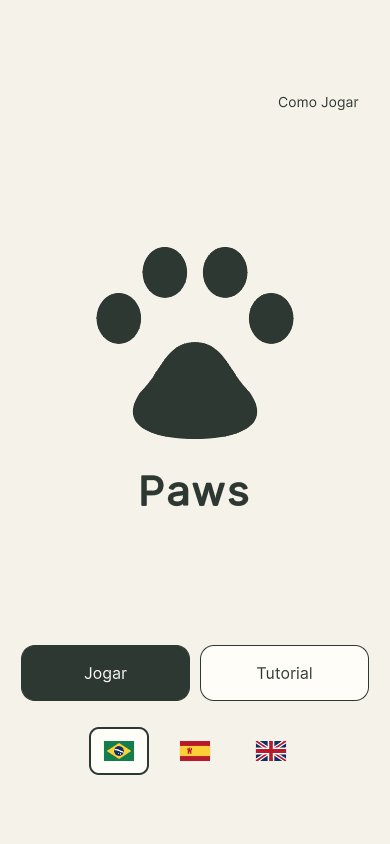
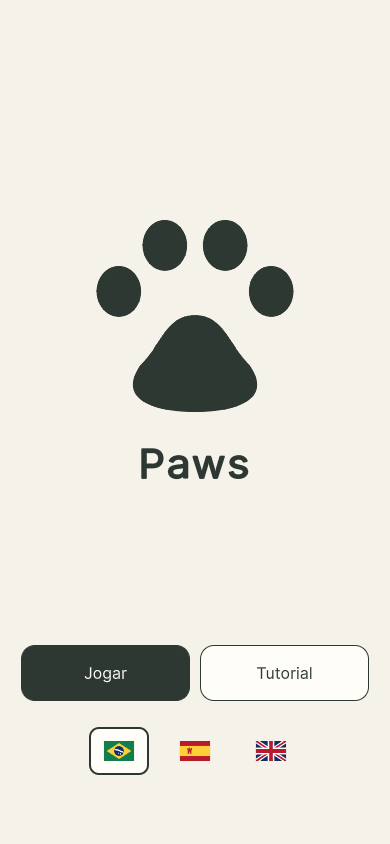
refactor(menu): use tutorial as the sole learning entry point (#72)

Changed region(s): [[0.2462, 0.2464, 0.7692, 0.6161], [0.8308, 0.0924, 0.9231, 0.154], [0.7385, 0.0924, 0.8, 0.1232]]

diff --git a/UnityProject/Assets/CatsAndArrows/UI/GameLocalization.cs b/UnityProject/Assets/CatsAndArrows/UI/GameLocalization.cs
@@ -26,7 +26,6 @@ namespace CatsAndArrows.UI
                 { "game.back", new[] { "Back to the Game", "Voltar ao Jogo", "Volver al Juego" } },
                 { "game.close", new[] { "Continue", "Continuar", "Continuar" } },
                 { "game.retry", new[] { "Try Again", "Tentar Novamente", "Intentar de Nuevo" } },
-                { "game.rules", new[] { "How to Play", "Como Jogar", "Cómo Jugar" } },
                 { "game.language", new[] { "Language", "Idioma", "Idioma" } },
                 { "game.loading", new[] { "Finding a little puzzle…", "Preparando um tabuleiro…", "Preparando un tablero…" } },
                 { "game.victory", new[] { "All paws found!", "Você encontrou todas as patas!", "¡Encontraste todas las patas!" } },
@@ -39,11 +38,6 @@ namespace CatsAndArrows.UI
                 { "game.hint-correction", new[] { "This clue gently replaces your earlier mark.", "Esta pista substitui a marca anterior com tranquilidade.", "Esta pista reemplaza con calma tu marca anterior." } },
                 { "game.hint-none", new[] { "There is no new clue to apply right now. You can keep exploring, or clear the marks and try again.", "Não há uma nova pista para aplicar agora. Você pode continuar explorando ou limpar as marcas e tentar novamente.", "Ahora no hay una nueva pista para aplicar. Puedes seguir explorando o limpiar las marcas y volver a intentarlo." } },
                 { "game.failure", new[] { "Let's try another puzzle", "Vamos tentar outro tabuleiro", "Probemos otro tablero" } },
-                { "game.rules-body", new[] {
-                    "Find every paw using the clues.\n\nNumbers beside each row and above each column show exactly how many paws belong there.\n\nEach arrow points to at least one paw along its path. Diagonal arrows follow an exact 45° line.\n\nTap a cell to cycle Empty → X → Paw → Empty. X means no paw. Drag horizontally or vertically from an empty cell to mark empty cells with X.\n\nArrow cells cannot be changed. On an ordinary board, hold an arrow for 350 ms to outline its path until you release. Hatched cells are protected: an arrow's clue already proves there is no paw there.\n\nYou finish as soon as all paws are correctly placed. The other cells can be empty or X. There is no timer or penalty for exploring.\n\nHints are unlimited and immediately place one correct Paw or X. Clear removes your marks. Next board starts another puzzle with a random difficulty. The same difficulty appears at most twice in a row. Menu lets you read these rules or change language; your current game stays here while the app is open.",
-                    "Encontre todas as patas usando as pistas.\n\nOs números ao lado de cada linha e acima de cada coluna mostram exatamente quantas patas devem estar ali.\n\nCada seta aponta para pelo menos uma pata ao longo de seu caminho. Setas diagonais seguem uma linha exata de 45°.\n\nToque em uma célula para alternar Vazia → X → Pata → Vazia. X significa sem pata. Arraste na horizontal ou vertical a partir de uma célula vazia para marcar células vazias com X.\n\nAs células com setas não podem ser alteradas. Em um tabuleiro comum, segure uma seta por 350 ms para destacar seu caminho até soltar. Células hachuradas são protegidas: a pista de uma seta já prova que não há pata ali.\n\nVocê termina assim que todas as patas estiverem nos lugares corretos. As outras células podem estar vazias ou com X. Não há cronômetro nem penalidade por explorar.\n\nAs dicas são ilimitadas e colocam imediatamente uma marca correta de Pata ou X. Limpar remove suas marcas. Próximo tabuleiro começa outro jogo com uma dificuldade aleatória. A mesma dificuldade aparece no máximo duas vezes seguidas. O Menu permite ler estas regras ou mudar o idioma; o jogo atual fica aqui enquanto o aplicativo está aberto.",
-                    "Encuentra todas las patas usando las pistas.\n\nLos números al lado de cada fila y encima de cada columna indican exactamente cuántas patas debe haber allí.\n\nCada flecha apunta a por lo menos una pata a lo largo de su recorrido. Las flechas diagonales siguen una línea exacta de 45°.\n\nToca una celda para alternar Vacía → X → Pata → Vacía. X significa sin pata. Arrastra en horizontal o vertical desde una celda vacía para marcar celdas vacías con X.\n\nLas celdas con flechas no se pueden cambiar. En un tablero normal, mantén pulsada una flecha durante 350 ms para resaltar su recorrido hasta soltarla. Las celdas rayadas están protegidas: la pista de una flecha ya demuestra que allí no hay pata.\n\nTerminas cuando todas las patas están en sus lugares correctos. Las demás celdas pueden estar vacías o con X. No hay reloj ni penalización por explorar.\n\nLas pistas son ilimitadas y colocan inmediatamente una marca correcta de Pata o X. Limpiar elimina tus marcas. Siguiente tablero comienza otro juego con una dificultad aleatoria. La misma dificultad aparece como máximo dos veces seguidas. El Menú permite leer estas reglas o cambiar el idioma; tu partida actual se mantiene mientras la aplicación está abierta."
-                } }
             };
             var locales = new[] { "en", "pt-BR", "es" };
             return new LocalizationCatalog(locales.Select((locale, index) =>

diff --git a/UnityProject/Assets/CatsAndArrows/UI/MonetizationLocalization.cs b/UnityProject/Assets/CatsAndArrows/UI/MonetizationLocalization.cs
@@ -13,7 +13,6 @@ namespace CatsAndArrows.UI
                 { "monetization.restore", new[] { "Restore Purchases", "Restaurar compras", "Restaurar compras" } },
                 { "monetization.explanation", new[] { "Removes ads between puzzles and makes hints available without ads.", "Remove anúncios entre tabuleiros e libera dicas sem anúncios.", "Elimina anuncios entre tableros y permite pistas sin anuncios." } },
                 { "monetization.review", new[] { "Mock review only. No real ads, store or charges.", "Apenas teste simulado. Sem anúncios reais, loja ou cobranças.", "Solo prueba simulada. Sin anuncios reales, tienda ni cargos." } },
-                { "monetization.rules", new[] { "Hints place one correct Paw or X. Without Remove All Ads, each hint requires a rewarded ad. An ad may appear when starting another puzzle after every fourth completed board.", "Dicas colocam uma marca correta de Pata ou X. Sem Remover todos os anúncios, cada dica exige um anúncio recompensado. Um anúncio pode aparecer ao iniciar outro tabuleiro após cada quarto tabuleiro concluído.", "Las pistas colocan una marca correcta de Pata o X. Sin Eliminar todos los anuncios, cada pista requiere un anuncio con recompensa. Puede aparecer un anuncio al comenzar otro tablero después de cada cuarto tablero completado." } },
                 { "monetization.status.None", new[] { "", "", "" } },
                 { "monetization.status.AdUnavailable", new[] { "Ad unavailable. Try Hint again later.", "Anúncio indisponível. Tente a dica mais tarde.", "Anuncio no disponible. Prueba la pista más tarde." } },
                 { "monetization.status.RewardNotEarned", new[] { "No reward earned. You can try again.", "Recompensa não obtida. Você pode tentar de novo.", "No se obtuvo recompensa. Puedes intentarlo de nuevo." } },
@@ -26,11 +25,6 @@ namespace CatsAndArrows.UI
                 { "monetization.status.Busy", new[] { "Please wait…", "Aguarde…", "Espera…" } }
             };
             foreach (var entry in entries) messages.Add(entry.Key, entry.Value[localeIndex]);
-            var freeHintSentence = new[] { "Hints are unlimited and immediately place one correct Paw or X.",
-                "As dicas são ilimitadas e colocam imediatamente uma marca correta de Pata ou X.",
-                "Las pistas son ilimitadas y colocan inmediatamente una marca correcta de Pata o X." };
-            messages.Add("monetization.rules-body", messages["game.rules-body"].Replace(freeHintSentence[localeIndex], "") +
-                "\n\n" + messages["monetization.rules"]);
         }
     }
 }

diff --git a/UnityProject/Assets/CatsAndArrows/Tests/EditMode/MenuPresentationTests.cs b/UnityProject/Assets/CatsAndArrows/Tests/EditMode/MenuPresentationTests.cs
@@ -48,7 +48,7 @@ namespace CatsAndArrows.Tests
                 Assert.That(shell.Query<Label>().ToList().Any(l => l.text == messages["game.language"]), Is.False);
                 Assert.That(shell.Q("menu-languages").Children().Select(e => e.name),
                     Is.EqualTo(new[] { "language-pt-BR", "language-es", "language-en" }));
-                foreach (var name in new[] { "menu-start", "menu-tutorial", "menu-rules", "language-pt-BR", "language-es", "language-en" })
+                foreach (var name in new[] { "menu-start", "menu-tutorial", "language-pt-BR", "language-es", "language-en" })
                 {
                     var button = shell.Q<Button>(name); var rect = button.worldBound;
                     Assert.That(rect.width, Is.GreaterThanOrEqualTo(48), name);
@@ -73,7 +73,7 @@ namespace CatsAndArrows.Tests
             }
         }
 
-        [Test] public void ResumeRulesAndTutorialRemainAvailableWithoutMutatingBoard()
+        [Test] public void ResumeAndTutorialRemainAvailableWithoutMutatingBoard()
         {
             var shell = new GameShellView(14, "pt-BR", PlayTestFactory.Loop(), tutorialSeen: () => true, markTutorialSeen: () => { });
             shell.StartNewGame();
@@ -82,9 +82,8 @@ namespace CatsAndArrows.Tests
             var marks = session.Marks.ToArray();
             shell.ShowMenu();
             Assert.That(shell.Q<Button>("menu-back"), Is.Not.Null);
-            Assert.That(shell.Q<Button>("menu-rules"), Is.Not.Null);
+            Assert.That(shell.Q<Button>("menu-rules"), Is.Null);
             Assert.That(shell.Q<Button>("menu-tutorial"), Is.Not.Null);
-            shell.ShowRules(); Assert.That(shell.Modal, Is.EqualTo("rules"));
             shell.BackToGame();
             Assert.That(shell.ActiveSession, Is.SameAs(session));
             Assert.That(session.Marks, Is.EquivalentTo(marks));

diff --git a/UnityProject/Assets/CatsAndArrows/UI/GameShellView.cs b/UnityProject/Assets/CatsAndArrows/UI/GameShellView.cs
@@ -239,13 +239,6 @@ namespace CatsAndArrows.UI
                 scroll.contentContainer.style.minHeight = evt.newRect.height);
             scroll.contentContainer.style.alignItems = Align.Center;
 
-            var navigation = new VisualElement { name = "menu-navigation" };
-            navigation.style.width = Length.Percent(100);
-            navigation.style.alignItems = Align.FlexEnd;
-            var rules = MakeButton("menu-rules", "game.rules", ShowRules);
-            QuietMenuButton(rules); rules.style.fontSize = 14;
-            navigation.Add(rules); scroll.Add(navigation);
-
             var hero = new VisualElement { name = "menu-hero" };
             hero.style.flexGrow = 1; hero.style.flexShrink = 0;
             hero.style.minHeight = 300; hero.style.width = Length.Percent(100);
@@ -631,13 +624,6 @@ namespace CatsAndArrows.UI
             monetization.Changed -= OnMonetizationChanged;
             monetization.HintDelivered -= OnHintDelivered;
             monetization.Dispose();
-        }
-        public void ShowRules()
-        {
-            if (loading || CommercialBusy) return;
-            var returnToMenu = Screen == "menu";
-            ShowModal("rules", text.GetText("game.rules"), text.GetText(monetization?.Enabled == true ? "monetization.rules-body" : "game.rules-body"),
-                MakeButton("modal-back", "game.close", () => { if (returnToMenu) ShowMenu(); else BackToGame(); }));
         }
         private void ShowModal(string kind, string heading, string body, params Button[] actions)
         {

diff --git a/UnityProject/Assets/CatsAndArrows/UI/HintIdleReviewChecks.cs b/UnityProject/Assets/CatsAndArrows/UI/HintIdleReviewChecks.cs
@@ -132,10 +132,10 @@ namespace CatsAndArrows.UI
             {
                 Click(shell, "menu-back"); shell.TickHintAttention(); Require(!Attention(shell), "return starts fresh");
                 advance(6); shell.TickHintAttention(); Require(Attention(shell), "return interval");
-                shell.ShowRules(); Require(!Attention(shell), "modal immediately removes emphasis");
-                advance(60); shell.TickHintAttention(); shell.BackToGame();
-                advance(5.999); shell.TickHintAttention(); Require(!Attention(shell), "no modal time accumulation");
-                advance(.002); shell.TickHintAttention(); Require(Attention(shell), "full post-modal interval");
+                shell.SetApplicationPaused(true); Require(!Attention(shell), "pause immediately removes emphasis");
+                advance(60); shell.TickHintAttention(); shell.SetApplicationPaused(false);
+                advance(5.999); shell.TickHintAttention(); Require(!Attention(shell), "no paused time accumulation");
+                advance(.002); shell.TickHintAttention(); Require(Attention(shell), "full post-pause interval");
                 shell.ShowMenu(); shell.SelectLanguage(locale); shell.BackToGame(); shell.TickHintAttention();
                 Require(!Attention(shell) && hint.style.backgroundColor.value == PortraitBoardView.Tile &&
                     hint.style.color.value == BoardSymbolElement.Ink, "old button restored after locale rebuild");

diff --git a/UnityProject/Assets/CatsAndArrows/Tests/EditMode/GameShellTests.cs b/UnityProject/Assets/CatsAndArrows/Tests/EditMode/GameShellTests.cs
@@ -54,7 +54,6 @@ namespace CatsAndArrows.Tests
                 { { "row", 3 }, { "column", 4 }, { "state", text.GetText("board.paw") } });
             Assert.That(target, Does.Contain("3").And.Contain("4").And.Contain(text.GetText("board.paw")));
             Assert.That(target, Does.Not.Contain("{"));
-            Assert.That(text.GetText("game.rules-body"), Does.Contain("45°"));
         }
 
         [TestCase("fr-CA", "en")]
@@ -91,7 +90,7 @@ namespace CatsAndArrows.Tests
         }
 
         [Test]
-        public void MenuRulesAndLanguagePreserveLiveSessionAndReturnWithoutNewGeneration()
+        public void MenuAndLanguagePreserveLiveSessionAndReturnWithoutNewGeneration()
         {
             var view = PlayTestFactory.Shell(14, "en", useInlineHints: false);
             Assert.That(view.StartNewGame(), Is.True);
@@ -100,8 +99,6 @@ namespace CatsAndArrows.Tests
             var before = session.Marks.ToArray();
             view.ShowMenu();
             Assert.That(view.BoardView.InteractionEnabled, Is.False);
-            view.ShowRules();
-            Assert.That(view.Modal, Is.EqualTo("rules"));
             view.SelectLanguage("pt-BR");
             Assert.That(view.Locale, Is.EqualTo("pt-BR"));
             Assert.That(view.Screen, Is.EqualTo("menu"));

diff --git a/UnityProject/Assets/CatsAndArrows/Tests/EditMode/DifficultyShellTests.cs b/UnityProject/Assets/CatsAndArrows/Tests/EditMode/DifficultyShellTests.cs
@@ -22,12 +22,12 @@ namespace CatsAndArrows.Tests
         [TestCase("en", "Play", "Next board")]
         [TestCase("pt-BR", "Jogar", "Próximo tabuleiro")]
         [TestCase("es", "Jugar", "Siguiente tablero")]
-        public void MenuOffersPlayTutorialRulesLanguagesWithoutDifficultyChoice(string locale, string play, string next)
+        public void MenuOffersPlayTutorialLanguagesWithoutDifficultyChoice(string locale, string play, string next)
         {
             var shell = PlayTestFactory.Shell(14, locale);
             Assert.That(shell.Q<Button>("menu-start").text, Is.EqualTo(play));
             Assert.That(shell.Q<Button>("menu-tutorial"), Is.Not.Null);
-            Assert.That(shell.Q<Button>("menu-rules"), Is.Not.Null);
+            Assert.That(shell.Q<Button>("menu-rules"), Is.Null);
             foreach (var id in new[] { "easy", "medium", "hard" })
                 Assert.That(shell.Q<Button>("menu-difficulty-" + id), Is.Null);
             foreach (var id in new[] { "en", "pt-BR", "es" })

diff --git a/UnityProject/Assets/CatsAndArrows/Tests/EditMode/BoardLocalizationTests.cs b/UnityProject/Assets/CatsAndArrows/Tests/EditMode/BoardLocalizationTests.cs
@@ -27,9 +27,7 @@ namespace CatsAndArrows.Tests
             Assert.That(messages["tutorial.welcome"], Does.Contain("Paws"));
             Assert.That(messages["tutorial.paw-state"], Does.Contain("<b>" + paw + "</b>"));
             Assert.That(messages["tutorial.practice"], Does.Contain("→ X → " + paw + " →"));
-            Assert.That(messages["monetization.rules-body"], Does.Contain(messages["monetization.rules"]));
-            Assert.That(messages["monetization.rules-body"], Does.Not.Contain(locale == "en" ? "unlimited" : "ilimitadas"));
-            foreach (var key in new[] { "board.row-total", "board.column-total", "game.rules-body",
+            foreach (var key in new[] { "board.row-total", "board.column-total",
                 "tutorial.goal", "tutorial.independent", "tutorial.complete", "game.victory", "completion.message" })
                 Assert.That(messages[key], Does.Contain(paws), locale + ":" + key);
             foreach (var message in messages)

diff --git a/UnityProject/Assets/CatsAndArrows/UI/GameLoopReviewChecks.cs b/UnityProject/Assets/CatsAndArrows/UI/GameLoopReviewChecks.cs
@@ -25,10 +25,6 @@ namespace CatsAndArrows.UI
                     Require(shell.Q<Button>("menu-difficulty-" + id) == null, "Play has no difficulty choice");
             })) yield break;
             yield return Capture(captures, "menu");
-            if (!Check(() => Click(shell, "menu-rules"))) yield break;
-            yield return Capture(captures, "rules");
-            if (!Check(() => { Require(shell.Modal == "rules", "rules open"); Click(shell, "modal-back"); })) yield break;
-            yield return new WaitForEndOfFrame();
             if (!Check(() => Click(shell, "menu-start"))) yield break;
             yield return Ready(shell);
             if (!Check(() => Require(shell.Loop.Session != null && shell.Screen == "play" &&

diff --git a/UnityProject/Assets/CatsAndArrows/Tests/EditMode/HintAttentionShellTests.cs b/UnityProject/Assets/CatsAndArrows/Tests/EditMode/HintAttentionShellTests.cs
@@ -122,7 +122,7 @@ namespace CatsAndArrows.Tests
         {
             yield return Mount(inline: false);
             Advance(6); AssertAttention(Hint, true);
-            view.ShowRules(); AssertAttention(Hint, false);
+            view.RequestHint(); Assert.That(view.Modal, Is.EqualTo("hint")); AssertAttention(Hint, false);
             Advance(60); AssertAttention(Hint, false);
             view.BackToGame(); Advance(5.999); AssertAttention(Hint, false);
             Advance(.002); AssertAttention(Hint, true);

diff --git a/docs/TESTING.md b/docs/TESTING.md
@@ -3,8 +3,8 @@
 ## Issue #72 initial menu
 
 2026-10-20: pinned Unity **6000.3.25f1** compilation passed
-(`compile.DTMlOK`); final EditMode **480/480 passed**, zero failed/skipped/
-inconclusive, successful editor exit (`editmode.bB5cb5`). Repository validation
+(`compile.mCNjsj`); final EditMode **480/480 passed**, zero failed/skipped/
+inconclusive, successful editor exit (`editmode.didpG3`). Repository validation
 and whitespace checks passed. `MenuPresentationTests` mounts all three locales
 at 320×568, 390×844 and 430×932, checking safe bounds, minimum touch targets,
 side-by-side actions, flag order/selection, removed copy and unchanged live-board
@@ -13,8 +13,10 @@ clear/new-board, tutorial and locale persistence regressions. Independent QA
 reported no blocking findings after code and screenshot review.
 
 The macOS review player passed the existing `--game-loop-check=1` navigation/
-ordinary-play smoke at EN 390×844 with 59/34 simulated safe insets (rules, Play,
-Menu/resume, clear/hint, completion locks and next-board routing). Native menu
+ordinary-play smoke at EN 390×844 with 59/34 simulated safe insets (Play,
+Menu/resume, clear/hint, completion locks and next-board routing). The updated
+`--hint-idle-check=1` smoke also passed, including fresh idle timing after pause.
+Native menu
 captures use 20/0 insets for compact EN and 59/34 for standard PT and tall ES:
 
 | Compact EN · 320×568 | Standard pt-BR · 390×844 | Tall ES · 430×932 |
@@ -30,7 +32,7 @@ Logs and the player remain under ignored `.unity-results/issue72/`.
 
 Physical iPhone review is pending. Human checklist: confirm paw/title balance and
 safe spacing, comfortable Play/Tutorial/flag targets, selected flag visibility,
-all three localized labels, Tutorial/Play/How to Play routes and live-board
+all three localized labels, Tutorial/Play routes and live-board
 Menu/resume. Desktop checks do not establish physical appearance or comfort.
 
 ## Physical iPhone tests: human review required
@@ -793,7 +795,7 @@ preferences, live-menu resume, modal command guards and completed action locks.
 
 Mounted shell flows passed in all three initial locales. A final mounted pass
 verifies panel picking before synthetic button events (`issue8-panel-picking.log`).
-UX reviewed 18 Menu/Rules/Play/Hint/Victory/Completed captures without blockers.
+UX reviewed 18 historical menu/gameplay captures without blockers.
 QA found no local code/test/render blockers. iOS Release build/sign/install
 passed. Owner iPhone playtest passed the full flow, three languages, saved locale,
 completed-board locks and background/reopen. Native iPhone 17 Release diagnostic

diff --git a/docs/GAME_LOOP_REVIEW.md b/docs/GAME_LOOP_REVIEW.md
@@ -5,7 +5,7 @@ Merge remains pending explicit owner approval.
 
 ## Delivered behavior
 
-Menu offers Easy start, scrollable rules, English/Brazilian Portuguese/Spanish
+Menu offers Easy start, English/Brazilian Portuguese/Spanish
 language selection and Back to the Game when a live session exists. Locale alone
 persists; the current board stays in memory through Menu/background transitions.
 Normal boot picks a fresh initial seed; `--game-seed` pins diagnostic reproduction.
@@ -22,7 +22,7 @@ protection or hidden-answer reveal is introduced.
 Victory appears immediately after exact-cat completion, including from Hint.
 Back to the Game exposes the read-only completed board. Hint/Clear are disabled;
 Menu/New Game stay active. A final Hint merges its explanation into one victory
-dialog. Rules/hint bodies scroll and actions remain reachable; overlays suspend
+dialog. Hint bodies scroll and actions remain reachable; overlays suspend
 board input and cancel capture. Existing deterministic tap/drag remains intact.
 
 ## Validation evidence
@@ -37,7 +37,7 @@ menu/resume, modal guards, retry and immediate victory/action locks.
 macOS builds passed (`issue8-macos-build.log`, `issue8-macos-picking-build.log`).
 Mounted synthetic button flows passed in en/pt-BR/es; final checks also verify
 panel picking resolves each visible button (`issue8-panel-picking.log`). Real
-rendered PNGs cover Menu, Rules, Play, Hint, Victory and Completed in each locale:
+rendered PNGs include Menu, Play, Hint, Victory and Completed in each locale:
 `.unity-results/issue8-captures/en-320x568`, `pt-BR-390x844`, `es-430x932`.
 Simulated safe top/bottom insets are respectively 50/34, 50/34 and 59/34 pixels.
 UX reviewed all 18 captures and found no overlap, clipping or missing actions.
@@ -86,7 +86,7 @@ physical verification remains pending; first delivery is iOS.
 ## Owner playtest
 
 Start Easy; tap/drag; use Hint and read its explanation; dismiss it and Clear.
-Open Menu and return, preserving marks; switch all three languages and read Rules.
+Open Menu and return, preserving marks; switch all three languages.
 Complete a board (Hint may help), inspect it using Back to the Game, confirm
 Hint/Clear are disabled, then start New Game. Check that modal screens block board
 input and background/reopen retains the live board. Restart to check the saved
